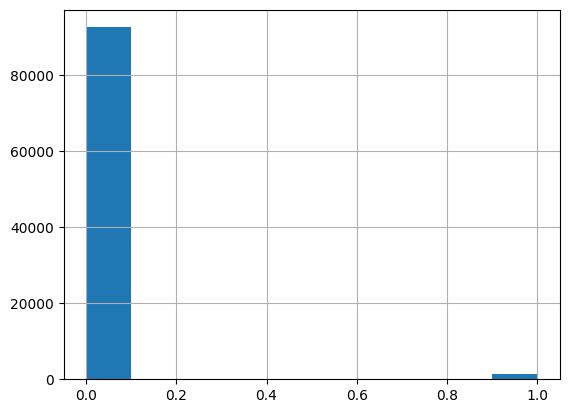
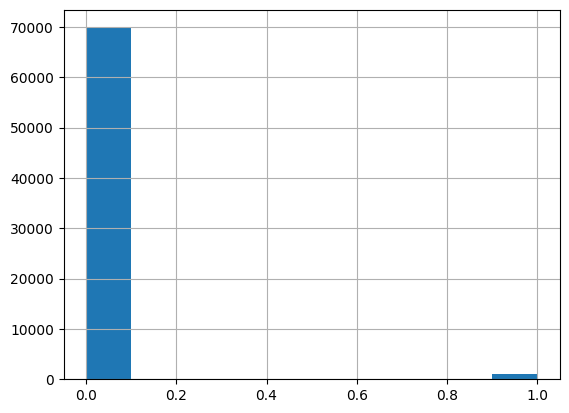
aa

diff --git a/process-predict.py b/process-predict.py
@@ -69,7 +69,7 @@ raw_df = raw_df.drop(columns=['batch_date', 'swab_type', 'test_name', 'temperatu
 
 # Age to Categorical
 print("Converting Age to binary...")
-raw_df['age_greater_than_55'] = np.where(raw_df['age'] > 55, 1, 0)
+raw_df['age_greater_than_60'] = np.where(raw_df['age'] > 60, 1, 0)
 raw_df = raw_df.drop(columns=['age'])
 
 
@@ -123,8 +123,8 @@ raw_df_full[string_col_list_1] = raw_df_full[string_col_list_1].astype(int)
 
 # Analyzing Distribution of Class Labels
 print("Analyzing distribution of class labels...")
-#print(raw_df['covid19_test_results'].value_counts())
-test_histo = raw_df['covid19_test_results'].hist()
+#print(raw_df_full['covid19_test_results'].value_counts())
+test_histo = raw_df_full['covid19_test_results'].hist()
 test_histo_copy = test_histo.get_figure()
 test_histo_copy.savefig('output/test_histo.png', bbox_inches = 'tight')
 plt.close()
@@ -159,7 +159,7 @@ def chi2_select():
 	chi2_dict = {}
 	for i in range(len(fs_chi2.scores_)):
 		chi2_dict[i] = fs_chi2.scores_[i]
-		# print('Feature %d: %f' % (i, fs_chi2.scores_[i]))
+		print('Feature %d: %f' % (i, fs_chi2.scores_[i]))
 	chi2_dict = sorted(chi2_dict, key=chi2_dict.get, reverse = True)
 	plt.bar([i for i in range(len(fs_chi2.scores_))], fs_chi2.scores_)
 	plt.savefig('output/chi2_fs.png', bbox_inches = 'tight')
@@ -177,30 +177,35 @@ def mi_select():
 	plt.savefig('output/mi_fs.png', bbox_inches = 'tight')
 	plt.close()
 	return mi_dict
+def chi2_select_no_graph():
+	fs_chi2 = select_features_chi2_helper(X_train_full, y_train_full)
+	chi2_dict = {}
+	for i in range(len(fs_chi2.scores_)):
+		chi2_dict[i] = fs_chi2.scores_[i]
+	chi2_dict = sorted(chi2_dict, key=chi2_dict.get, reverse = True)
+	return chi2_dict
 def mi_select_no_graph():
 	fs_mi = select_features_mi_helper(X_train_full, y_train_full)
 	mi_dict = {}
 	for i in range(len(fs_mi.scores_)):
 		mi_dict[i] = fs_mi.scores_[i]
-		# print('Feature %d: %f' % (i, fs_mi.scores_[i]))
 	mi_dict = sorted(mi_dict, key=mi_dict.get, reverse = True)
 	return mi_dict
 # two calls below are only used to create graphs. Actual repeated checking is done below
 chi2_dict = chi2_select()
 mi_dict = mi_select()
-# feature_set = set(mi_select_no_graph()[:20])
-# for rep_mi in range(19, 13, -1):
-#     if rep_mi < 15:
-#         temp_feature_set = set(mi_select_no_graph()[:15])
-#         feature_set.intersection_update(temp_feature_set)
-#     else:
-#         temp_feature_set = set(mi_select_no_graph()[:rep_mi])
-#         feature_set.intersection_update(temp_feature_set)
+# feature_set = set(mi_select_no_graph()[:17])
+# temp_set = set(chi2_select_no_graph()[:14])
+# feature_set = feature_set.union(temp_set)
+# for rep_mi in range(17, 7, -1):
+#     temp_feature_set = set(mi_select_no_graph()[:rep_mi])
+#     feature_set.intersection_update(temp_feature_set)
+# print(feature_set)
 feature_set = [9, 10, 14, 15, 16, 18]
 # ['high_risk_exposure_occupation', 'diabetes', 'chd', 'htn', 'cancer',
 #        'asthma', 'copd', 'autoimmune_dis', 'smoker', 'cough', 'fever', 'sob',
 #        'diarrhea', 'fatigue', 'headache', 'loss_of_smell', 'loss_of_taste',
-#        'runny_nose', 'muscle_sore', 'sore_throat', 'age_greater_than_55']
+#        'runny_nose', 'muscle_sore', 'sore_throat', 'age_greater_than_60']
 X_train_full_colnames = X_train_full.columns
 fs_colnames = []
 for elem in feature_set:
@@ -219,6 +224,7 @@ print(X_train_full_fs.columns)
 # X_validation_fs_post = pd.DataFrame(X_validation_fs_post, columns = X_train_full.columns)
 
 
+# # One-Class Classification
 # clf = IsolationForest(n_estimators=500, max_features=6, bootstrap=True, n_jobs=-1, random_state=0, warm_start=True).fit(X_train_full_fs)
 # y_pred = clf.predict(X_validation_full_fs)
 # for hhh in range(len(y_pred)):
@@ -338,7 +344,8 @@ rfc(X_train_full_fs, y_train_full, X_validation_full_fs, y_validation_full)
 '''
 # Testing best parameters
 def rfc(train_x, train_y, test_x, test_y):
-    rforest = RandomForestClassifier(n_jobs=-1, n_estimators=922, min_samples_split=5, min_samples_leaf=1, max_features='sqrt', max_depth=40, bootstrap=True)
+    rforest = RandomForestClassifier(n_jobs=-1, n_estimators=922, min_samples_split=2, min_samples_leaf=1, max_features='auto', max_depth=20, 
+    bootstrap=True)
     rforest.fit(train_x, train_y)
     y_predictions = rforest.predict(test_x)
     print("RMSE for Random Forest Classifier = ", mean_squared_error(test_y, y_predictions))
@@ -356,7 +363,7 @@ rfc(X_train_full_fs, y_train_full, X_validation_full_fs, y_validation_full)
 '''
 
 
-
+'''
 # Random Forest Random Search CV
 print("RF Random Search CV...")
 rf_model = RandomForestClassifier()
@@ -395,7 +402,7 @@ print('Best Hyperparameters: %s' % rf_result.best_params_)
 # print('Parameters currently in use:\n')
 # pprint(rf.get_params())
 dict_to_txt(rf_result.best_params_, "rf_best_params")
-
+'''
 
 '''
 # Grid Search CV
@@ -403,12 +410,24 @@ print("Concentrated Grid Search CV from Random Search CV results...")
 # Set up Grid Search CV parameters by expanding in, both directions, the best parameter settings obtained in random search cv
 # e.g. best min_sample_leaf values is 4, check 3 and 5 in grid search
 # grid search searches every possible combination of parameter values that you specified
+rf_model = RandomForestClassifier()
+# repeated KFold repeats a single KFold process for n_repeats number of times
+# on each repeat, the KFolds are partitioned randomly 
+rf_cv = RepeatedStratifiedKFold(n_splits=4, n_repeats=3, random_state=seed)
 grid_space = {}
-grid_search = GridSearchCV(estimator=rf_model, param_distributions=grid_space, n_iter=500, scoring='f1_macro', n_jobs=-1, cv=rf_cv, random_state=seed)
+grid_space['n_estimators'] = [922]
+grid_space['max_features'] = ['auto']
+grid_space['max_depth'] = [16, 17, 18, 19, 20, 21, 22, 23, 24]
+grid_space['min_samples_split'] = [1, 2, 3]
+grid_space['min_samples_leaf'] = [1, 2]
+grid_space['bootstrap'] = [True]
+grid_space['n_jobs'] = [-1]
+grid_search = GridSearchCV(estimator=rf_model, param_grid=grid_space, scoring='f1_macro', n_jobs=-1, cv=rf_cv)
 grid_result = grid_search.fit(X_train_full_fs, y_train_full)
 print('Best Score: %s' % grid_result.best_score_)
 print('Best Hyperparameters: %s' % grid_result.best_params_)
 best_params = grid_result.best_params_
+dict_to_txt(grid_result.best_params_, "grid_rf_best_params")
 '''
 
 '''
